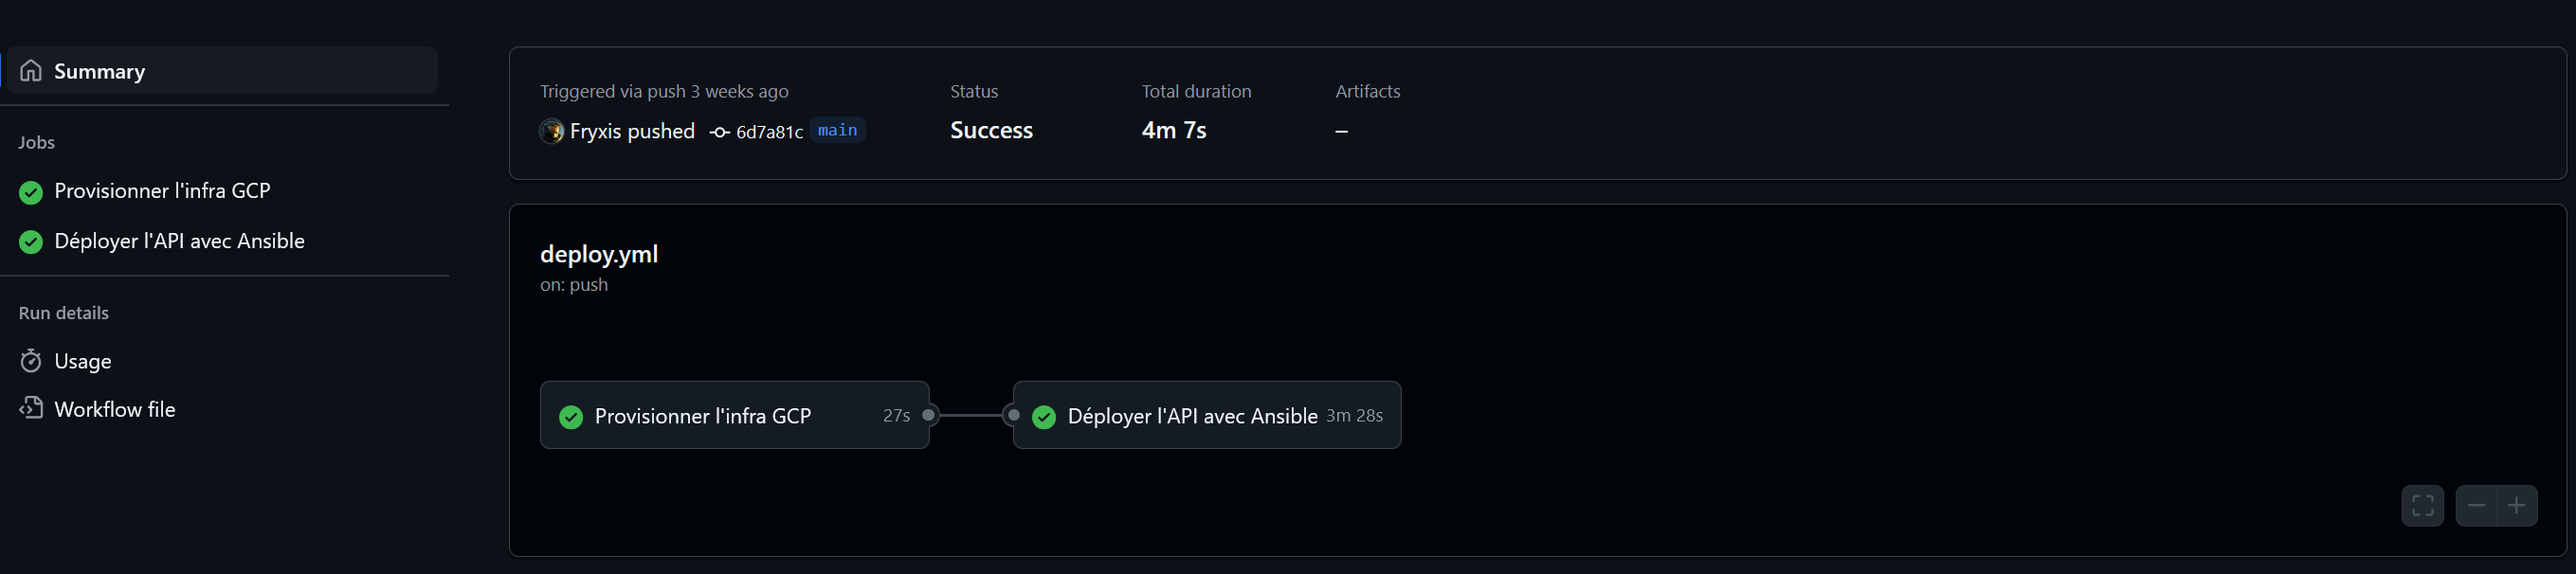
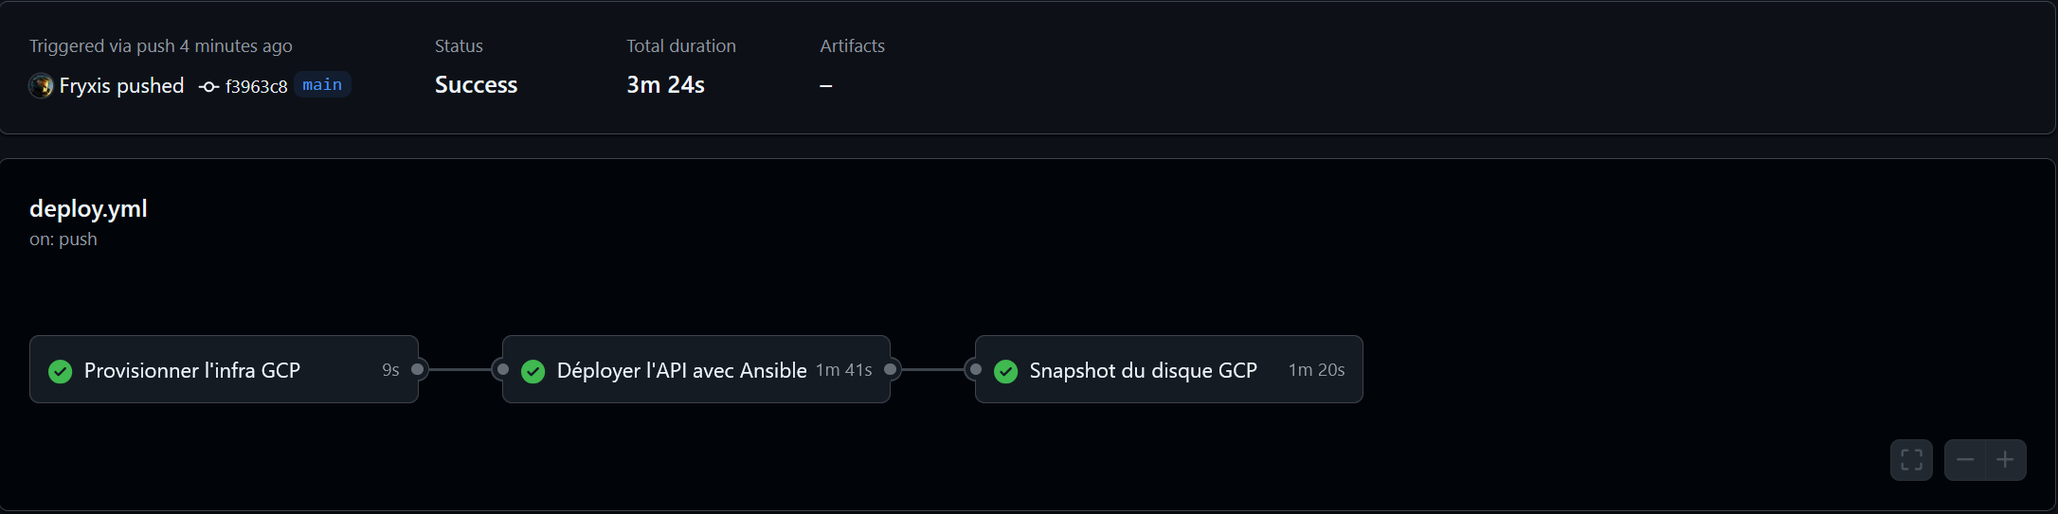
ajout readme.md

diff --git a/README.md b/README.md
@@ -146,5 +146,73 @@ gcloud compute instances attach-disk my-instance --disk=rollback-disk
 ├── .git/                   # Historique Git (non affiché sur GitHub)
 └── README.md               # Ce fichier
 ```
+## 🔐 Sauvegarde & 🔄 Rollback
+
+### 🗄 Stratégie de sauvegarde
+
+Afin de garantir une résilience maximale de l’infrastructure, une **sauvegarde automatique** est effectuée à l’aide de **snapshots GCP**. Cette opération est déclenchée **automatiquement après chaque déploiement réussi** via GitHub Actions.
+
+#### 🔧 Outils & Méthode
+
+- **Commande utilisée** : `gcloud compute disks snapshot`
+- **Ressource ciblée** : disque persistant principal (`vm-disk`) de la VM hébergeant l’API
+- **Nom du snapshot** : `snapshot-api-<timestamp>` (ex : `snapshot-api-20250611-130201`)
+- **Zone** : `europe-west9-b`
+- **Déclenchement** : à la fin du job `ansible` dans le pipeline CI/CD
+- **Authentification** : via clé de compte de service GCP encodée en base64, stockée dans `secrets.GCP_CREDENTIALS`
+
+#### 📄 Extrait GitHub Actions
+
+```yaml
+- name: Créer un snapshot du disque
+  run: |
+    TIMESTAMP=$(date +%Y%m%d-%H%M%S)
+    gcloud compute disks snapshot vm-disk \
+      --snapshot-names=snapshot-api-$TIMESTAMP \
+      --zone=europe-west9-b \
+      --project=${{ secrets.GCP_PROJECT_ID }}
+```
+## 🔄 Stratégie de rollback
+
+Le rollback permet de **restaurer un état fonctionnel connu** à partir d’un snapshot en cas d’échec du déploiement.
+
+### ✅ Déclenchement conditionnel
+
+Un job `rollback` est automatiquement exécuté dans GitHub Actions si le job `ansible` échoue :
+
+```yaml
+if: ${{ failure() }}
+```
+
+## 🔄 Stratégie de rollback
+
+Le rollback permet de **restaurer un état fonctionnel connu** à partir d’un snapshot en cas d’échec du déploiement.
+
+---
+
+### 🔁 Étapes de restauration
+
+1. **Détacher le disque corrompu**
+2. **Supprimer l’ancien disque**
+3. **Recréer un disque depuis le snapshot**
+4. **Réattacher le disque à la VM**
+
+---
+
+### 🖥 Script utilisé (GitHub Actions ou manuel)
+
+```bash
+gcloud compute instances detach-disk my-vm --disk=vm-disk --zone=europe-west9-b
+gcloud compute disks delete vm-disk --zone=europe-west9-b --quiet
+gcloud compute disks create vm-disk \
+  --source-snapshot=snapshot-api-<TIMESTAMP> \
+  --zone=europe-west9-b
+gcloud compute instances attach-disk my-vm --disk=vm-disk --zone=europe-west9-b
+
+### 📂 Fichiers associés
+
+- `rollback/restore_from_snapshot.sh` : script shell de restauration manuelle
+- `snapshots/` : documentation et informations sur les snapshots générés
+- `.github/workflows/deploy.yml` : pipeline avec gestion `snapshot` + `rollback`
 
 ---
